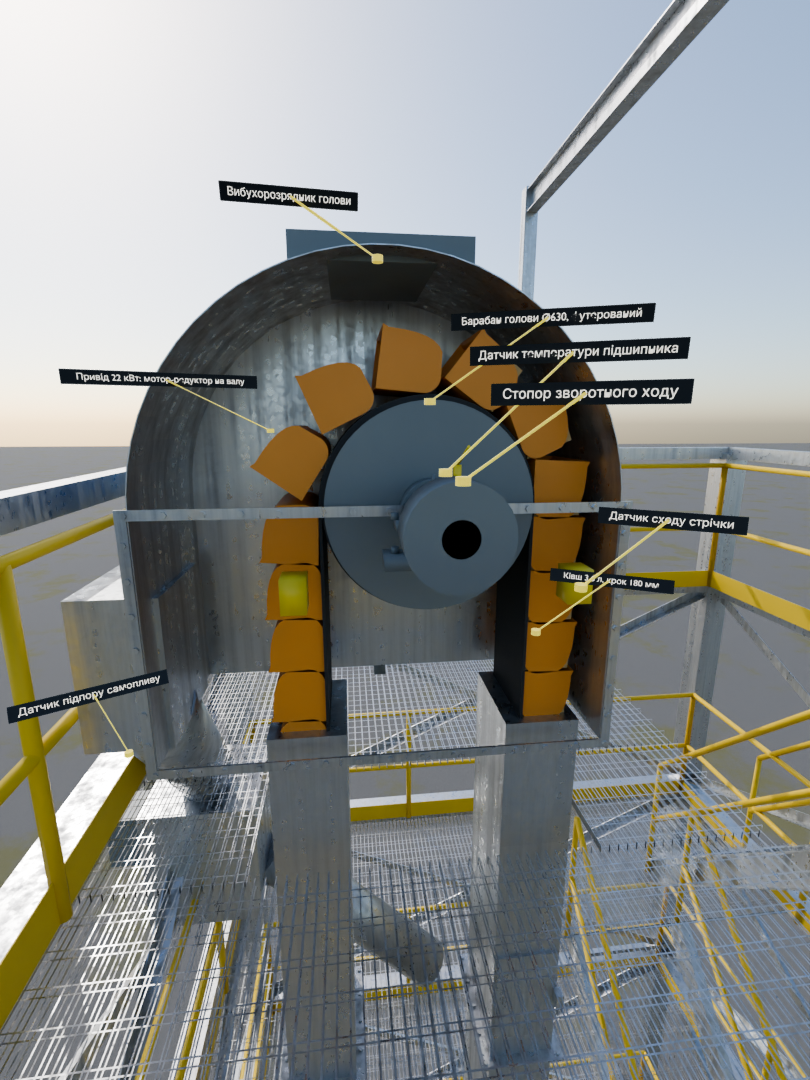
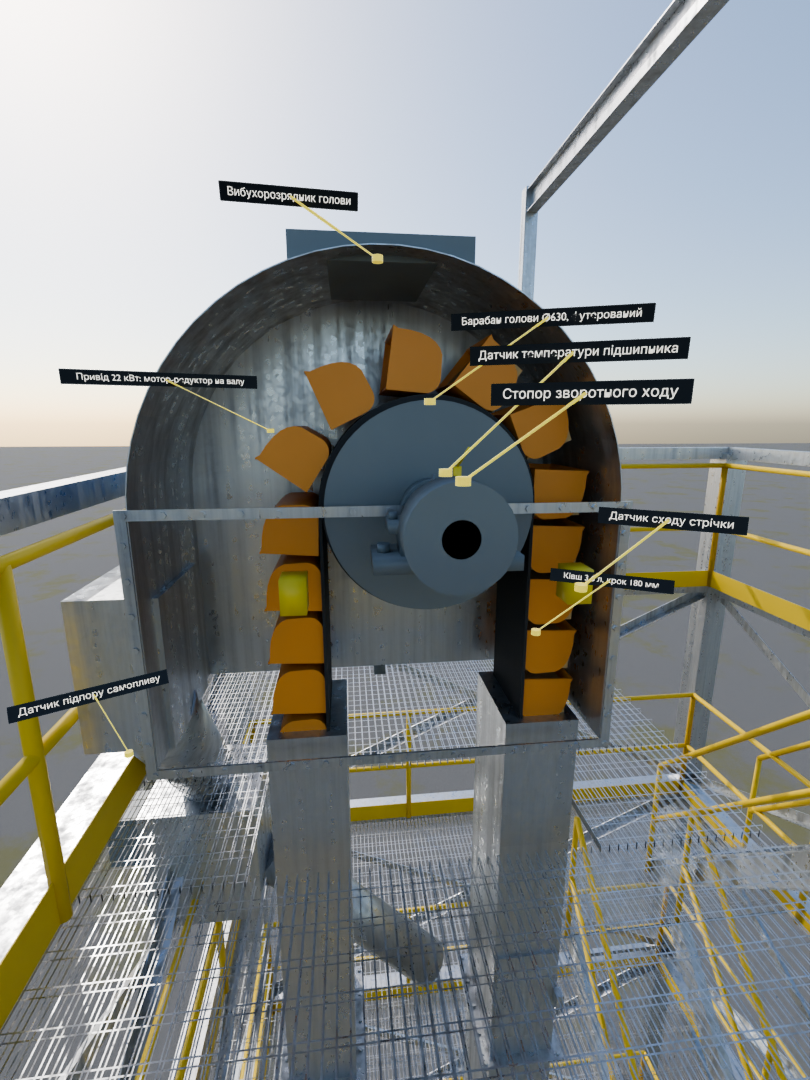
Noria: apply researched dimensions
Bucket 300x180x160 with 6.5 mm wall and 4 x M8 DIN 15237 fang bolts,
so buckets no longer overlap at 180 mm pitch; SKF SNL 520-617 housings;
leg explosion vents every 6.1 m per NFPA 61. Open questions listed in
the K2b README.

Claude-Session: https://claude.ai/code/session_01MY6Bgt3JVrL6PwgWiiCYXr

diff --git a/world/kit/noria_n100.py b/world/kit/noria_n100.py
@@ -30,7 +30,7 @@ BELT_T = 0.010
 BELT_R = PULLEY_R + LAGGING + BELT_T / 2          # belt centreline radius on the pulleys
 BUCKET_PITCH = 0.18
 BUCKET_W = 0.300
-BUCKET_T = 0.004
+BUCKET_T = 0.0065                  # research: Tapco CC-HD 12x6 wall 6.4 mm
 LEG_CLEAR_X = 0.256                               # across bucket projection
 LEG_CLEAR_Y = 0.376                               # across belt width
 LEG_SHEET = 0.002
@@ -112,13 +112,14 @@ def build_belt(path):
 def _bucket_profile(n_arc=8):
     """Outer profile (u outward from the belt, v along travel) of a CC-style bucket:
     straight back on the belt, radiused bottom, sloped front ending in a rolled lip."""
-    pts = [(0.0, 0.19), (0.0, 0.05)]
-    for a in np.linspace(math.pi, 1.5 * math.pi, n_arc)[1:]:                  # bottom radius 50 mm
-        pts.append((0.05 + 0.05 * math.cos(a), 0.05 + 0.05 * math.sin(a)))
-    p0, p1, p2 = np.array([0.10, 0.0]), np.array([0.172, 0.0]), np.array([0.172, 0.165])
+    # depth 160 mm < pitch 180 mm; CC-HD depth is 0.9-1.0 x projection (research/PARTS_DIMENSIONS.md)
+    pts = [(0.0, 0.16), (0.0, 0.045)]
+    for a in np.linspace(math.pi, 1.5 * math.pi, n_arc)[1:]:                  # bottom radius 45 mm
+        pts.append((0.045 + 0.045 * math.cos(a), 0.045 + 0.045 * math.sin(a)))
+    p0, p1, p2 = np.array([0.09, 0.0]), np.array([0.172, 0.0]), np.array([0.172, 0.138])
     for t in np.linspace(0, 1, n_arc)[1:]:                                     # sloped front
         pts.append(tuple((1 - t) ** 2 * p0 + 2 * (1 - t) * t * p1 + t ** 2 * p2))
-    pts.append((0.180, 0.182))                                                  # rolled lip
+    pts.append((0.180, 0.152))                                                  # rolled lip
     return np.array(pts)
 
 
@@ -153,17 +154,18 @@ def _bucket_local():
     faces.append(np.arange(base + 2 * m, base + 3 * m)[None, :])
     faces.append(np.arange(base + 3 * m, base + 4 * m)[::-1][None, :])
     parts = [(np.array(verts), faces)]
-    for w in (-0.075, 0.075):                                                  # M8 fang bolt heads
-        parts.append(st.member((BUCKET_T, 0.13, w), (BUCKET_T + 0.005, 0.13, w),
-                               np.column_stack([0.008 * np.cos(np.arange(8) * math.pi / 4),
-                                                0.008 * np.sin(np.arange(8) * math.pi / 4)]), up=(0, 1, 0)))
+    # 4 x M8 DIN 15237 fang bolts, Ø28 head, 88 mm pitch, 57 mm below the top edge (research)
+    for w in (-0.132, -0.044, 0.044, 0.132):
+        parts.append(st.member((BUCKET_T, 0.16 - 0.057, w), (BUCKET_T + 0.004, 0.16 - 0.057, w),
+                               np.column_stack([0.014 * np.cos(np.arange(12) * math.pi / 6),
+                                                0.014 * np.sin(np.arange(12) * math.pi / 6)]), up=(0, 1, 0)))
     return c.merge_parts(parts)
 
 
 def _grain_local():
     """Grain in a loaded bucket: a low mound filling ~75 %."""
-    v = np.array([(0.01, 0.01, -0.14), (0.16, 0.01, -0.14), (0.165, 0.14, -0.14), (0.01, 0.17, -0.14),
-                  (0.01, 0.01, 0.14), (0.16, 0.01, 0.14), (0.165, 0.14, 0.14), (0.01, 0.17, 0.14)])
+    v = np.array([(0.01, 0.01, -0.14), (0.16, 0.01, -0.14), (0.165, 0.12, -0.14), (0.01, 0.145, -0.14),
+                  (0.01, 0.01, 0.14), (0.16, 0.01, 0.14), (0.165, 0.12, 0.14), (0.01, 0.145, 0.14)])
     f = np.array([(0, 1, 2, 3), (4, 7, 6, 5), (0, 4, 5, 1), (1, 5, 6, 2), (2, 6, 7, 3), (3, 7, 4, 0)])
     return v, f
 
@@ -212,6 +214,11 @@ def build_legs(z0, z1):
             for yy in np.linspace(BELT_Y - LEG_SIZE_Y / 2 - 0.02, BELT_Y + LEG_SIZE_Y / 2 + 0.02, 5):
                 for xx in (xc - LEG_SIZE_X / 2 - 0.02, xc + LEG_SIZE_X / 2 + 0.02):
                     bolts.append(st.rod((xx, yy, z + 0.004), (xx, yy, z + 0.012), 0.0075, 6))
+    # explosion vents: leg over 32 m, NFPA 61 spacing <= 6.1 m, each >= 0.064 m2 (research)
+    for xc, sign in ((LEG_CENTRES_X[0], -1), (LEG_CENTRES_X[1], 1)):
+        xf = xc + sign * LEG_SIZE_X / 2
+        for z in np.arange(z0 + 3.0, z1 - 1.0, 6.1):
+            doors.append(c.box((min(xf, xf + sign * 0.025), BELT_Y - 0.16, z), (max(xf, xf + sign * 0.025), BELT_Y + 0.16, z + 0.30)))
     # inspection doors on the up leg: above the boot and under the head (EST 300 x 400)
     xc = LEG_CENTRES_X[0]
     for zd in (z0 + 0.8, z1 - 1.4):
@@ -302,21 +309,23 @@ def _pulley(z, wing=False):
 
 
 def _bearing(y, z):
-    """Split plummer block (SN-type) for a Ø90 shaft: base with feet and bolts, cap with
-    split bolts, seals, grease nipple, and a bearing temperature sensor on top. Sizes EST."""
-    h = 0.112                                                  # shaft centre above the base
-    body = [c.box((CX - 0.16, y - 0.05, z - h), (CX + 0.16, y + 0.05, z - h + 0.035)),         # base
-            c.box((CX - 0.105, y - 0.045, z - h + 0.035), (CX + 0.105, y + 0.045, z)),          # lower half
-            st.rod((CX, y - 0.045, z), (CX, y + 0.045, z), 0.105, 40),                          # cap
-            c.box((CX - 0.13, y - 0.045, z - 0.012), (CX + 0.13, y + 0.045, z + 0.012))]        # split lugs
-    for yy in (y - 0.05, y + 0.045):
-        body.append(st.rod((CX, yy, z), (CX, yy + 0.005, z), 0.065, 32))                         # seals
-    for x in (CX - 0.13, CX + 0.13):
-        body.append(st.rod((x, y, z - h + 0.035), (x, y, z - h + 0.052), 0.012, 6))            # foot bolts
-        body.append(st.rod((x, y, z + 0.012), (x, y, z + 0.030), 0.011, 6))                    # cap bolts
-    body.append(st.rod((CX + 0.03, y, z + 0.1), (CX + 0.03, y, z + 0.125), 0.005, 6))          # grease nipple
-    sensor = [st.rod((CX - 0.03, y, z + 0.1), (CX - 0.03, y, z + 0.15), 0.011, 10),
-              st.rod((CX - 0.03, y, z + 0.15), (CX - 0.03, y + 0.12, z + 0.2), 0.004, 6)]       # cable
+    """Split plummer block SKF SNL 520-617 for the Ø90 shaft (research: SKF catalogue p.1043):
+    axis height 112, overall height 218, base 380 x 160 x 40, 2 x M24 at 320, cap width 110."""
+    h, hb, bl, bw = 0.112, 0.040, 0.380, 0.160
+    r_cap = 0.218 - h
+    body = [c.box((CX - bl / 2, y - bw / 2, z - h), (CX + bl / 2, y + bw / 2, z - h + hb)),           # base
+            c.box((CX - 0.12, y - 0.055, z - h + hb), (CX + 0.12, y + 0.055, z)),                     # lower half
+            st.rod((CX, y - 0.055, z), (CX, y + 0.055, z), r_cap, 48),                                # cap
+            c.box((CX - 0.15, y - 0.055, z - 0.014), (CX + 0.15, y + 0.055, z + 0.014))]              # split lugs
+    for yy in (y - 0.062, y + 0.055):
+        body.append(st.rod((CX, yy, z), (CX, yy + 0.007, z), 0.07, 32))                               # seals
+    for x in (CX - 0.16, CX + 0.16):
+        body.append(st.rod((x, y, z - h + hb), (x, y, z - h + hb + 0.022), 0.019, 6))               # M24 foot bolts
+    for x in (CX - 0.135, CX + 0.135):
+        body.append(st.rod((x, y, z + 0.014), (x, y, z + 0.032), 0.013, 6))                         # cap bolts
+    body.append(st.rod((CX + 0.03, y, z + r_cap - 0.005), (CX + 0.03, y, z + r_cap + 0.02), 0.005, 6))
+    sensor = [st.rod((CX - 0.03, y, z + r_cap - 0.01), (CX - 0.03, y, z + r_cap + 0.04), 0.011, 10),
+              st.rod((CX - 0.03, y, z + r_cap + 0.04), (CX - 0.03, y + 0.12, z + r_cap + 0.09), 0.004, 6)]
     return body, sensor
 
 
@@ -446,7 +455,9 @@ def build(top_z, pit_z, phase=0.0):
         "pole_distance_m": round(895 / (60 * BELT_SPEED / (math.pi * 2 * PULLEY_R)) ** 2, 3),
         "discharge": "centrifugal" if 895 / (60 * BELT_SPEED / (math.pi * 2 * PULLEY_R)) ** 2 < PULLEY_R else "gravity",
         "bucket_volume_l_calc": round(100 / (3.6 * BELT_SPEED * 0.75 * 0.75) * BUCKET_PITCH, 2),
-        "bucket_mm": [300, 175, 190],
+        "bucket_mm": [300, 180, 160],
+        "bucket_wall_mm": 6.5,
+        "bucket_bolts": "4 x M8 DIN 15237, 88 mm pitch",
         "bucket_pitch_m": BUCKET_PITCH,
         "buckets": n_buckets,
         "belt_loop_m": round(path.length, 2),

diff --git a/world/out/k2b_noria/README.md b/world/out/k2b_noria/README.md
@@ -9,7 +9,7 @@
 | Продуктивність, привід | 100 т/год, 22 кВт | каталог проєкту, PDF p.8 |
 | Швидкість стрічки | 2.5 м/с | Лубнимаш УН-100: 2.2–2.7 м/с |
 | Ківш | 3.6 л: Q = 3.6·v·(i/a)·ρ·φ, ρ 0.75, φ 0.75, a 0.18 м | розрахунок |
-| Габарит ковша | 300 × 175 × 190 мм, полімер 4 мм | EST під 3.6 л |
+| Габарит ковша | 300 × 180 × 160 мм, полімер 6.5 мм, 4 болти M8 DIN 15237 (головка Ø28) з кроком 88 мм, 57 мм від верху | research: глибина 0.9–1.0 × виліт (Tapco CC-HD), стінка 6.4–7.1 мм (Tapco), болти DIN 15237. Глибина 160 < крок 180, ковші не налазять |
 | Крок ковшів | 180 мм, 400 ковшів на стрічці 72 м | оголошення 2017, збігається з розрахунком |
 | Переріз труби | 376 × 256 мм у світлі, лист 2 мм | оголошення 2017; ківш 300×175 вміщується з запасом (перевірка); лист — Лубнимаш «не менше 2 мм» |
 | Голова і башмак | лист 3 мм, передня кришка знімна на фланці | Лубнимаш «не менше 3 мм» |
@@ -18,6 +18,8 @@
 | Стрічка | 325 × 10 мм, гумотканинна | EST під ківш 300 мм |
 | Натяжний пристрій | гвинтовий, корпуси підшипників у напрямних | EST |
 | Труби норії | секції по 2 м, рамки з кутника 40×40, болти M8 | EST |
+| Вибухорозрядники на трубах | кожні 6.1 м, 300 × 320 мм, на зовнішніх гранях | research: NFPA 61 (≤ 6.1 м, ≥ 0.064 м²); труба 33 м > 32 м порогу |
+| Корпуси підшипників | SKF SNL 520-617: вісь 112, висота 218, основа 380 × 160 × 40, 2 × M24 на 320 | research: каталог SKF с. 1043 |
 | Датчики | схід стрічки ×4 (голова і башмак), швидкість на валу башмака, температура підшипників ×4, підпір самопливу, вибухорозрядник на голові | практика безпеки норій (EN/ATEX, NFPA 61), EST розміщення |
 
 ## Кадри
@@ -28,3 +30,9 @@
 
 У сцені кришки — окремі об'єкти `H5_NORIA_HEAD_COVER` і `H5_NORIA_BOOT_COVER`: сховати їх — і вузол у розрізі. Підписи — колекція `LABELS_H5`, вмикається окремо.
 Ковші розставлені по стрічці параметром `phase` (метри): це основа для анімації руху (етап D2).
+
+## Відкриті питання (див. research/PARTS_DIMENSIONS.md)
+
+- Крок ковшів 180 мм з оголошення. Правило Tapco (крок ≥ виліт + 2") дає ~226 мм. Уточнити в Лубнимаша: від кроку залежить кількість ковшів і продуктивність.
+- Місткість ковша 300 × 180 × 160 у літрах не знайдена; розрахунок вимагає ~3.6 л.
+- Габарити крильчастого барабана, мотор-редуктора і розміри IEC 180L — не знайдені у відкритому доступі (сайти заблоковані мережею хмари).
